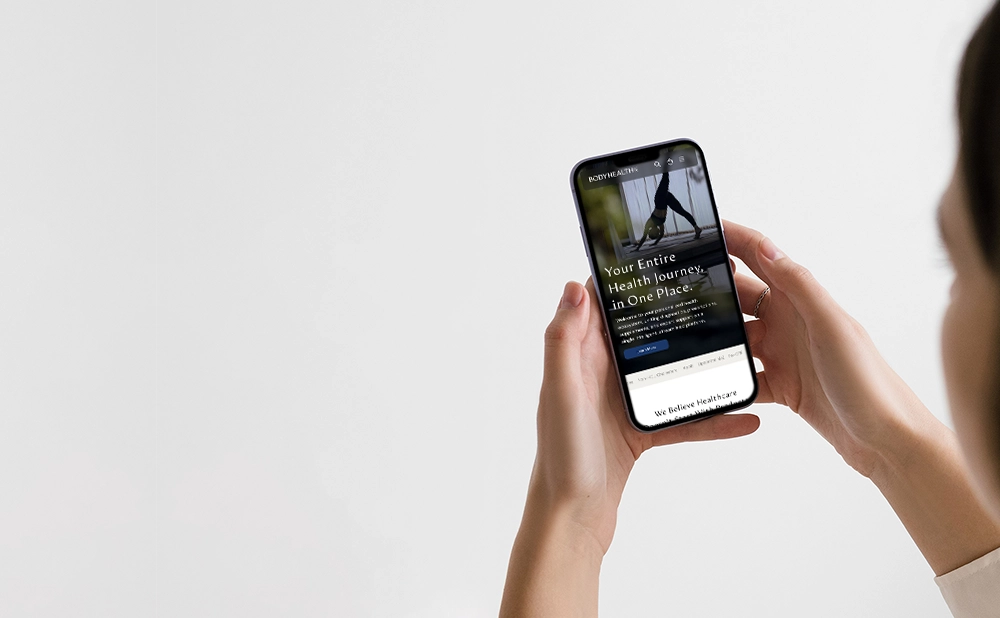
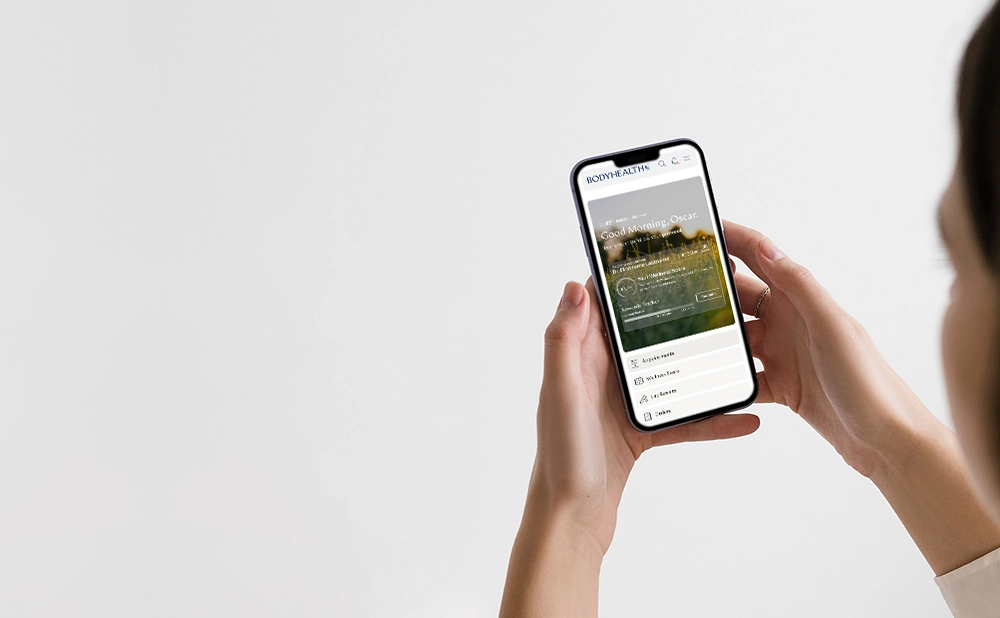
BHRx case study updates

Changed region(s): [[0.558, 0.2152, 0.744, 0.6764], [0.713, 0.6149, 0.744, 0.6456]]

diff --git a/projects/bodyhealthrx/index.html b/projects/bodyhealthrx/index.html
@@ -354,14 +354,23 @@
         <p>I was brought in as a senior UX/UI design contractor at the start of the rebrand from BodyHealth to BodyHealthRx. The company had been building toward this launch for more than a year, but for me it was a crash course: discover, design, and build &mdash; fast, and without the luxury of a stable target.</p>
         <p>BodyHealthRx is a wellness company in the middle of a significant transformation. What began as a supplement business is expanding into a comprehensive wellness platform: at-home diagnostic testing, compounded prescription medications, online clinical consultation, and subscription-based wellness programs &mdash; all built on Shopify, all launching under a new brand identity, and all being defined and refined at the same time. This wasn&apos;t a simple redesign. It was a full platform launch compressed into months.</p>
         <p>The scope breaks into three phases. Phase 1: a new website and brand for prescriptions and at-home testing to complement the existing supplements business. Phase 2, recently kicked off: a full user portal and personal wellness dashboard covering appointment scheduling, lab results, order tracking, rewards, and personalized wellness recommendations. Phase 3: the redesign of the original BodyHealth website, with the longer-term possibility of unifying both platforms under a single URL. Three distinct phases, one design system, built on a foundation that was still being poured.</p>
-        <p>The scale gives shape to the ambition: 9 pages for products and categories, more than 60 pages across the Rx section, roughly 10 survey paths for different treatment types, and instruction flows for each at-home test running about a dozen pages each. All of it designed to be built, maintained, and extended by a system rather than by hand.</p>
+        <p><em>The BodyHealthRx site alone includes more than 100 designed pages:</em></p>
+        <ul>
+          <li>10 at-home test product pages, a test landing page, and a shop-all page</li>
+          <li>A prescriptions landing page, 10 category pages, and 60+ individual prescription pages</li>
+          <li>A supplements landing page</li>
+          <li>Roughly 10 survey paths for different treatment types</li>
+          <li>Instruction flows for each at-home test running about a dozen pages each</li>
+          <li>Plus dozens of supporting pages &mdash; about, how it works, privacy, terms, kit registration, and more</li>
+        </ul>
+        <p><em>The dashboard and user portal add significantly to that total &mdash; and the system was built to support all of it.</em></p>
       </section>
       <section>
         <h2>The Before</h2>
         <p>The design work I encountered when I arrived was genuinely good. There was a strong visual sensibility in place, real brand instincts, and a clear point of view. The people responsible for it cared about the work and it showed. What was missing wasn&apos;t talent or intention &mdash; it was structure. There was no methodology connecting the good instincts to a repeatable, scalable process. Styles and variables existed, but they had been built up organically over time, applied case by case without an underlying naming convention or organizational logic. Components hadn&apos;t been systematized. The files were hard to navigate and harder to hand off. The ingredients for a great design system were already there. What they needed was someone to build the kitchen.</p>
       </section>
       <section>
-        <h2>The Approach</h2>
+        <h2>Foundation First</h2>
         <p>I typically begin any engagement with what I think of as BEM exercises &mdash; working through the block, element, and modifier relationships of a design before touching a single component. Color, spacing, typography: I build the framework for those decisions first, establishing variables and values and making sure the architecture is sound before the walls go up. From there I move into atoms and molecules without trying to solve everything at once.</p>
         <p>I&apos;ve never been a fan of traditional wireframes. They tend to be either too abstract for stakeholders to react to meaningfully or too polished to invite real feedback. Instead, I build what I&apos;ve started calling handsome wireframes &mdash; layouts with real content and at least a baseline style applied, something that establishes a framework and gives everyone at the table something genuine to respond to. The goal is to get work in front of real people as quickly and efficiently as possible and to create something that enables other people&apos;s creativity rather than replacing it.</p>
         <p>The token system I built for BodyHealthRx follows a semantic, purpose-driven naming convention throughout. Colors are named for what they do rather than what they look like &mdash; <code>color/brand/primary</code>, <code>color/text/inverse</code>, <code>color/background/secondary</code> &mdash; so the system communicates intent at every level. Variable collections are organized by category, with responsive modes for desktop and mobile baked in at the token level rather than patched on afterward. The V1 system used desktop and mobile modes. The V2 system expanded to mobile, tablet, and widescreen &mdash; not because every layout needs a tablet breakpoint, but because the line between screen sizes has been narrowing and classic breakpoint labels like &quot;desktop&quot; don&apos;t describe the range of devices people actually use. A laptop isn&apos;t a desktop, and neither is an HD TV. The extra mode gives us flexibility where information density demands it, particularly as the dashboard work deepens.</p>
@@ -384,7 +393,7 @@
         <p>None of this is glamorous work. But it&apos;s the work that makes the glamorous work possible. When I know that a platform needs to support 60+ Rx pages and growing, I can&apos;t afford to populate designs by hand. The content pipeline has to be as systematic as the component pipeline, or one of them becomes the bottleneck.</p>
       </section>
       <section>
-        <h2>V1: Proving the Approach</h2>
+        <h2>V1: The First System</h2>
         <p>The first system was built from experience and best practices, drawing on everything I know about atomic design, token architecture, and responsive-first thinking. The library that came out of that effort was comprehensive: alerts, badges, banners in multiple configurations, buttons across three types and three states, cards for products, lifestyle, partners, and categories, a full input system, navigation, surveys, tabs, typography components, and a motion control system for carousels and sliders. I also built a custom Resizer utility &mdash; a Figma-native tool embedded in text components to enforce consistent line lengths and eliminate widows and orphans across the layout.</p>
         <div class="gallery">
           <figure style="width: 100%">
@@ -482,13 +491,14 @@
             </picture>
           </figure>
         </div>
+        <p>I built the dashboard home page as a fully functional Figma prototype &mdash; every tab clickable, real content throughout, responsive at both mobile and widescreen. The whole thing came together in about two weeks. I&apos;d already been building the V2 library before the dashboard was assigned, so when it became an urgent priority the system was ready. The components, the tokens, the responsive modes &mdash; all of it was in place. I wasn&apos;t building screens from scratch. I was assembling them from a library that was already working.</p>
         <p>The dashboard designs were developed collaboratively and presented to a cross-functional group of EVPs and VPs across design, project management, and medicine, including a board member. The reaction was telling: the room had very few questions and no suggestions for improvement. For a cross-functional executive review of this scope, silence is the highest compliment &mdash; it means nothing needed to be defended because nothing needed to be fixed.</p>
         <p>These were handsome wireframes &mdash; real content, real style, real responsive behavior &mdash; presented as a framework to react to rather than a finished deliverable. The fact that a room full of executives treated them as if they were finished says something about the approach.</p>
       </section>
       <section>
-        <h2>Design to Production</h2>
+        <h2>The Proof</h2>
         <p>A design system is only as good as what it builds. The real test isn&apos;t how the components look in Figma &mdash; it&apos;s how faithfully they translate when a developer picks them up and puts them to work. The BodyHealthRx Shopify build is that test, and it passes.</p>
-        <p>The side-by-side comparison below shows the Figma design and the live Shopify implementation of the same page. The layout, spacing, typography hierarchy, component structure, and visual tone are essentially identical. The token architecture, the naming conventions, the responsive modes &mdash; all of it was built to make this moment possible. Not just a design that could be handed off, but one that could be built from.</p>
+        <p>The side-by-side comparison below shows the Figma design and the live Shopify implementation of the home page and the at-home tests page. The layout, spacing, typography hierarchy, component structure, and visual tone are essentially identical. The token architecture, the naming conventions, the responsive modes &mdash; all of it was built to make this moment possible. Not just a design that could be handed off, but one that could be built from.</p>
         <p>When asked about the system, the development team&apos;s response was direct: &quot;This thing is 1000x better than just about anything I ever work with. Light years ahead.&quot;</p>
       </section>
       <div class="gallery compare">
